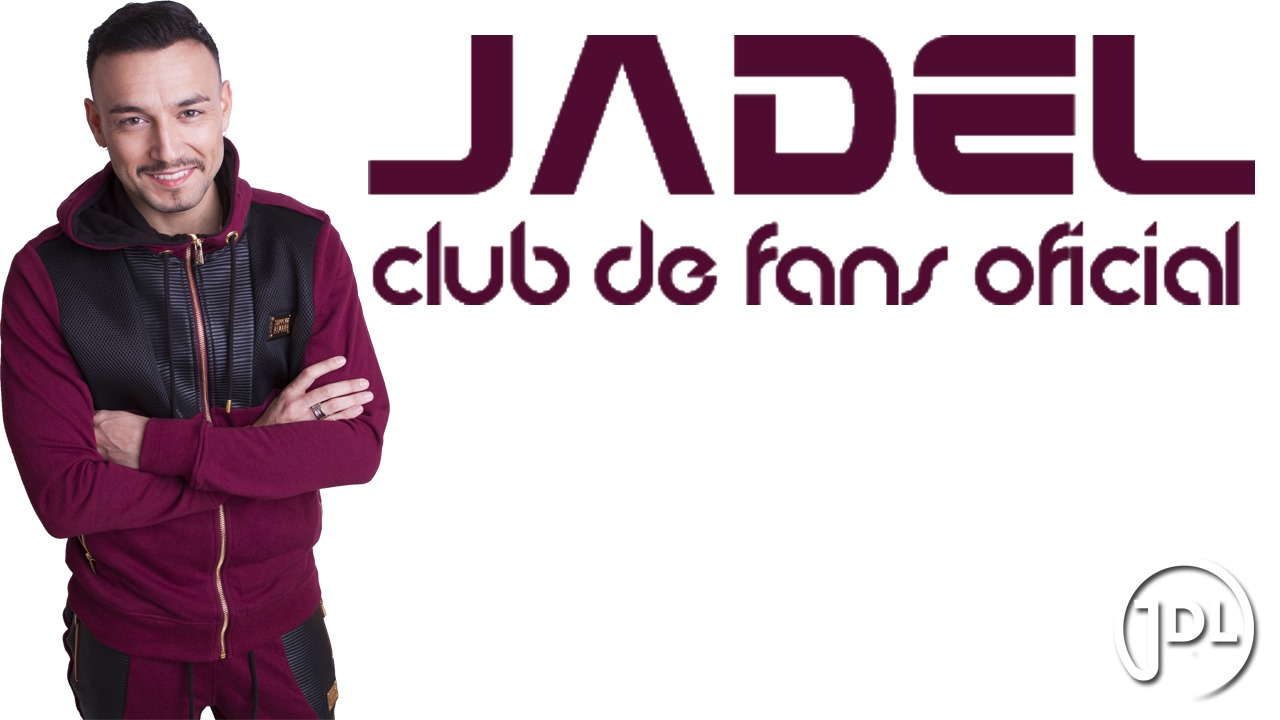
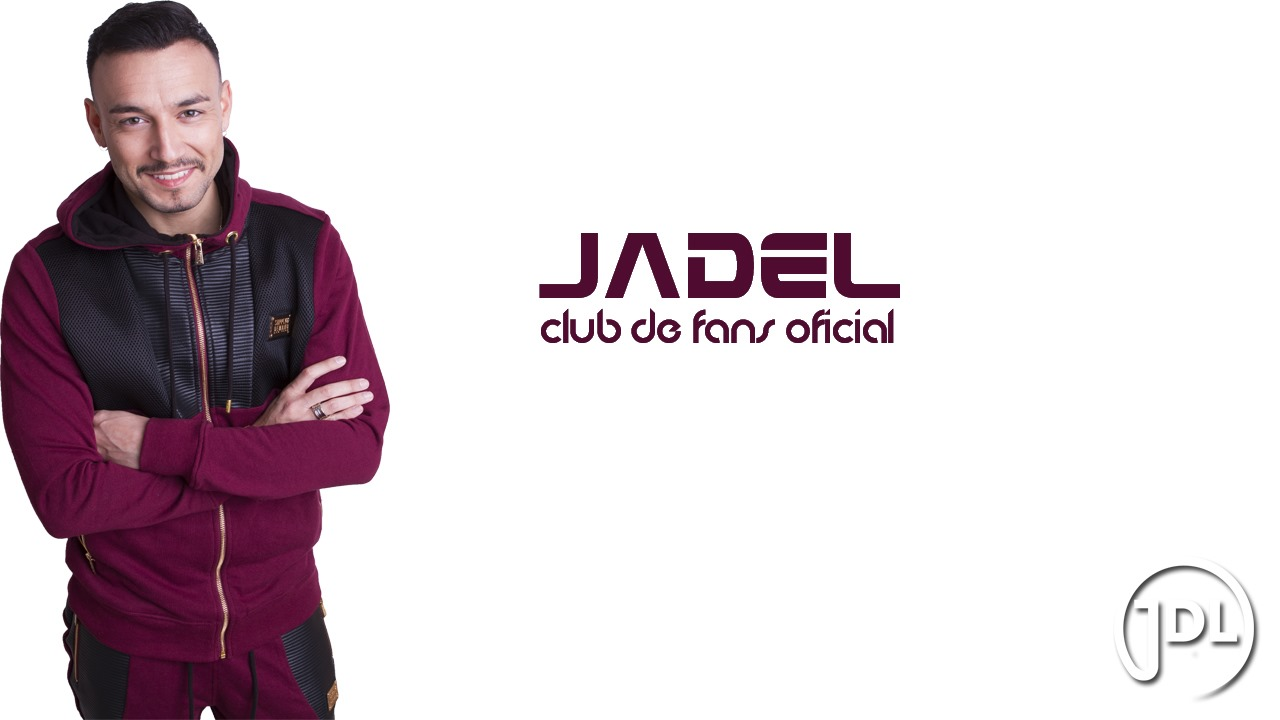
Updtaing home pages

Changed region(s): [[0.2812, 0.0306, 1.0, 0.275], [0.2812, 0.3056, 0.9688, 0.4889]]

diff --git a/web/src/pages/welcome-page.jsx b/web/src/pages/welcome-page.jsx
@@ -1,21 +1,73 @@
-import { Link } from 'react-router-dom';
-// import homeGuessPicture from '../assets/BioPicture.jpg'
-// import homePicture from '../assets/homePicture.png';
+import { NavLink } from 'react-router-dom';
+import homePicture from '../assets/HomePicture.jpg';
 
 function WelcomePage() {
     return (
         <>
-            {/* Contenido Central */}
-            <div className='flex w-full border-2 border-blue-700 h-[70vh]'>
-                {/* Portada */}
-                <div className='w-full border-2 border-red-600 overflow-hidden'>
-                    {/* <img width={"500px"} height={"500px"} src={homeGuessPicture} alt="" srcset="" /> */}
+            <div className='w-screen h-screen'>
+                <img className="max-w-[87vw]" src={homePicture} alt="" />
+            </div>
+            {/* NavBar */}
+            <nav className='fixed top-0 left-[25vw]'>
+                <div className="container mx-auto px-4">
+                    <ul className="flex justify-around items-center py-4">
+                        <li
+                            className='bg-[#510b31] rounded-2xl border-2 text-center border-[#2e071d] px-4 py-2 min-w-32 hover:bg-[#2e071d] shadow-2xl'>
+                            <NavLink
+                                to="/biografia"
+                                className="text-white hover:text-gray-300"
+                            >
+                                Biografía
+                            </NavLink>
+                        </li>
+                        <li
+                            className='bg-[hsl(327,76%,18%)] rounded-2xl text-center border-2 border-[#2e071d] px-4 py-2 min-w-32 hover:bg-[#2e071d] shadow-2xl'>
+                            <NavLink
+                                to="/agenda"
+                                className="text-white hover:text-gray-300"
+                            >
+                                Agenda
+                            </NavLink>
+                        </li>
+                        <li
+                            className='bg-[hsl(327,76%,18%)] rounded-2xl text-center border-2 border-[#2e071d] px-4 py-2 min-w-32 hover:bg-[#2e071d] shadow-2xl'>
+                            <NavLink
+                                to="/chat"
+                                className="text-white hover:text-gray-300"
+                            >
+                                Chat
+                            </NavLink>
+                        </li>
+                        <li
+                            className='bg-[hsl(327,76%,18%)] rounded-2xl text-center border-2 border-[#2e071d] px-4 py-2 min-w-32 hover:bg-[#2e071d] shadow-2xl'>
+                            <NavLink
+                                to="/multimedia"
+                                className="text-white hover:text-gray-300"
+                            >
+                                Multimedia
+                            </NavLink>
+                        </li>
+                        <li
+                            className='bg-[hsl(327,76%,18%)] rounded-2xl text-center border-2 border-[#2e071d] px-4 py-2 min-w-32 hover:bg-[#2e071d] shadow-2xl'>
+                            <NavLink
+                                to="/tienda"
+                                className="text-white hover:text-gray-300"
+                            >
+                                Tienda
+                            </NavLink>
+                        </li>
+                        <li
+                            className='bg-[hsl(327,76%,18%)] rounded-2xl text-center border-2 border-[#2e071d] px-4 py-2 min-w-32 hover:bg-[#2e071d] shadow-2xl'>
+                            <NavLink
+                                to="/noticias"
+                                className="text-white hover:text-gray-300"
+                            >
+                                Noticias
+                            </NavLink>
+                        </li>
+                    </ul>
                 </div>
-                
-            </div>
-            {/* Footer */}
-            <div>
-            </div>
+            </nav>
         </>
     )
 }

diff --git a/web/src/pages/home-page.jsx b/web/src/pages/home-page.jsx
@@ -6,8 +6,8 @@ function HomePage() {
     return (
         <>
             <div className='w-[100vw] h-[100vh]'>
-                <img className='max-w-[87vw]' src={homePicture} alt="" srcset="" />
-                <div className='fixed top-[60vh] left-[50vw] flex flex-col gap-4'>
+                <img className='max-w-[87vw]' src={homePicture} alt="" />
+                <div className='fixed top-[60vh] left-[45vw] flex flex-col gap-4'>
                     <Link to={'/login'}
                         style={{"borderColor":"#4F0B30"}}
                         className='border-2 text-center p-2 rounded-2xl hover:bg-[#4F0B30] hover:text-white'>
